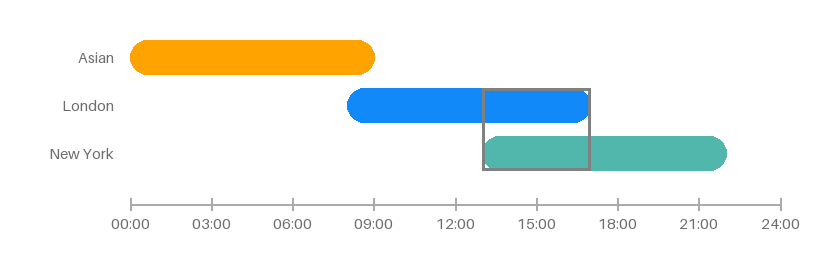
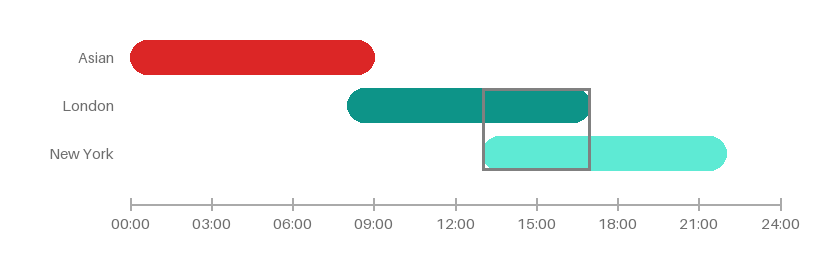
Full Learn section consistency pass: diagrams, wording, one factual fix
Ran the same audit that caught the Price Action issues across
Foundations, Reading Charts, and Market Structure.

Diagrams:
- 6 Foundations diagrams + order-blocks were still on the pre-2026-08-04
  blue/orange palette, never migrated to teal/red. Recoloured all 7;
  influence.png (4-tier hierarchy) and sessions-overlap.png (3 sessions)
  mapped to a teal-shade gradient rather than forcing an unrelated
  bull/bear red onto concepts that aren't bullish/bearish.
- trendlines/trendline-hybrid-anchor.png was missing the failed
  retest-and-reject candle the article text and caption both describe
  between the last touch and the real break. Added it.
- Verified the pin-bar.png "bug" flagged by the audit was a false
  positive on closer inspection, left unchanged.

Wording/accuracy:
- Fixed "NASD" typo (should be NAS100) in types-of-markets.md.
- Fixed a logically confused lag example in intro-to-indicators
  (conflated a pullback with a newly-forming trend).
- Updated two figure captions that named the old blue/orange colours
  by name.
- Removed two stray em-dashes (who-controls-markets caption,
  market-structure/execution section taglines).
- Cut a "worth sitting with" crutch construction in support-and-resistance.
- Tightened crutch-word density (mostly excess "rather than") across
  the 2026-08-13 Market Structure batch to match the rest of the site.

Changed region(s): [[0.3963, 0.3385, 0.7317, 0.4923], [0.1524, 0.1538, 0.4573, 0.3077], [0.5793, 0.5231, 0.8841, 0.6769]]

diff --git a/content/learn/market-structure/supply-and-demand/index.md b/content/learn/market-structure/supply-and-demand/index.md
@@ -10,7 +10,7 @@ tags: ["market structure", "supply and demand", "zones", "price action"]
 related: ["order-blocks", "supply-demand-flips", "what-is-market-structure"]
 ---
 
-Before price can make an impulsive move in one direction, it usually spends time resting somewhere first, a stretch of chop where buyers and sellers are roughly matched, and that resting spot is what a supply or demand zone actually marks. It's a close cousin of the [order block](/learn/market-structure/order-blocks/), covering the same underlying idea, but drawn around the whole base rather than a single candle.
+Before price can make an impulsive move in one direction, it usually spends time resting somewhere first, a stretch of chop where buyers and sellers are roughly matched, and that resting spot is what a supply or demand zone marks. It's a close cousin of the [order block](/learn/market-structure/order-blocks/), covering the same underlying idea, but drawn around the whole base rather than a single candle.
 
 ---
 
@@ -20,7 +20,7 @@ Before price can make an impulsive move in one direction, it usually spends time
 
 A demand zone is a base that price rallies away from, and the read is that buyers were accumulating there faster than sellers could absorb it, until the imbalance tipped and the market moved. A supply zone is the mirror image, a base that price falls away from, sellers building up until they overwhelmed the buyers holding the level.
 
-The strength of the move away from the zone matters more than how the zone itself looks. A slow grind up out of a base isn't nearly as telling as a sharp, wide-ranging rally that leaves the base behind in a handful of candles, since that speed is the evidence an imbalance was actually there.
+The strength of the move away from the zone matters more than how the zone itself looks. A slow grind up out of a base isn't nearly as telling as a sharp, wide-ranging rally that leaves the base behind in a handful of candles, since that speed is the evidence an imbalance was there.
 
 ---
 
@@ -32,7 +32,7 @@ An order block is the last single candle against the move, a narrow, precise def
 
 ## Fresh zones over tested ones
 
-A zone that hasn't been revisited since it formed is considered fresh, and it tends to react more reliably than one price has already returned to once or twice. The common explanation is that the first visit uses up whatever unfilled orders were left behind, so each additional test has less behind it, and while that's a model rather than a proven mechanism, it holds up often enough in practice to treat a fresh zone with more weight than a tested one.
+A zone that hasn't been revisited since it formed is considered fresh, and it tends to react more reliably than one price has already returned to once or twice. The common explanation is that the first visit uses up whatever unfilled orders were left behind, so each additional test has less behind it, and while that's a model, not a proven mechanism, it holds up often enough in practice to treat a fresh zone with more weight than a tested one.
 
 ---
 
@@ -46,7 +46,7 @@ A zone sitting in open space, with nothing else around it, is a level to watch r
 
 - A demand zone is the base price rallies away from; a supply zone is the base it falls away from
 - The strength of the move away from the base is the real evidence, not the shape of the base itself
-- Zones are broader than order blocks, covering the whole consolidation rather than one candle
+- Zones are broader than order blocks, covering the whole consolidation instead of one candle
 - Fresh, untested zones tend to react more reliably than zones price has already revisited
 - A zone alone is a level to watch; a zone with confluence is a level to trade
 

diff --git a/content/learn/reading-charts/intro-to-indicators/index.md b/content/learn/reading-charts/intro-to-indicators/index.md
@@ -24,7 +24,7 @@ A few others follow the same pattern. **MACD** is really two moving averages set
 
 I read price action first and lean on one indicator to back it up: **[eWavesHarmonics](/tools/)**, which handles wave counting and target price zones, and also marks fib levels, gaps, and supply and demand zones on the same chart, so I'm not juggling four separate indicators to get the same picture. It's built the same way as everything above, existing price run through a formula, it's just the particular transformation I've found useful for my own setups.
 
-## Where they genuinely help
+## Where they help
 
 Indicators are good at making a pattern easier to see than the raw candles alone would, and at giving a consistent, repeatable rule instead of an eyeballed judgement call. A moving average crossing from below to above price can flag a shift in short-term momentum faster than staring at candle colours would, and RSI holding above 70 for an extended stretch is a decent shorthand for "this move has been one-sided for a while." Used this way, an indicator adds a layer of confirmation on top of what the chart is already showing.
 
@@ -32,7 +32,7 @@ Indicators are good at making a pattern easier to see than the raw candles alone
 
 Because every indicator lags the closes it's built from, it will always confirm a move after it's underway rather than before, and trading purely off an indicator crossing a threshold means reacting to old information dressed up as a signal. Stacking several indicators built from the same price data doesn't add independent confirmation either, it just repeats the same signal in different clothing. The more useful habit is reading price action first and letting an indicator support that read, rather than the other way around.
 
-*Example: a moving average crossover flags a new uptrend just as price is already three candles into a pullback, because the average needed those candles to catch up. Anyone reading price action directly would have seen the pullback starting well before the crossover confirmed it.*
+*Example: a moving average crossover flags a new uptrend just as price is already three candles into the new move, because the average needed those candles to catch up. Anyone reading price action directly would have seen the shift starting well before the crossover confirmed it.*
 
 ---
 
@@ -42,7 +42,7 @@ Because every indicator lags the closes it's built from, it will always confirm 
 - Moving averages smooth price into a lagging line; oscillators like RSI turn recent gains and losses into a bounded, readable number
 - MACD, Bollinger Bands, ATR, and Stochastic all do the same trick with a different formula: two averages compared, a volatility band, pure movement, or the close against its recent range
 - I keep eWavesHarmonics on my own charts for wave counting, target zones, fib levels, gaps, and supply and demand zones, but it's still just price, transformed
-- Indicators are genuinely useful for confirmation and consistency, spotting what the eye might miss
+- Indicators are useful for confirmation and consistency, spotting what the eye might miss
 - They always lag, because they're built from closes that have already happened
 - Stacking multiple indicators built from the same price data isn't extra confirmation, it's repetition
 - Read price action first and use an indicator to support that read, not replace it

diff --git a/content/learn/market-structure/elliott-waves/index.md b/content/learn/market-structure/elliott-waves/index.md
@@ -32,7 +32,7 @@ Elliott practitioners lean heavily on Fibonacci ratios to judge whether a wave c
 
 ## The overfitting problem
 
-In real time, on the right-hand edge of the chart, there is very rarely one obvious wave count. Two experienced Elliott traders can look at the same chart and land on different labels, both defensible, and the count that eventually turns out to be "correct" is often only obvious after the fact. It's easy to fall into forcing a chart to match a preferred narrative rather than letting the chart tell you what it's actually doing, relabelling waves after the event to make a broken count look right in hindsight.
+In real time, on the right-hand edge of the chart, there is very rarely one obvious wave count. Two experienced Elliott traders can look at the same chart and land on different labels, both defensible, and the count that eventually turns out to be "correct" is often only obvious after the fact. It's easy to fall into forcing a chart to match a preferred narrative instead of letting the chart tell you what it's doing, relabelling waves after the event to make a broken count look right in hindsight.
 
 The more useful way to hold this theory is as a rough map of where price might sit within a bigger structure, not a standalone entry signal. Used alongside the more concrete tools already covered in this section, structure, zones, fair value gaps, it can add context for how far a move might still have to run. Used on its own as the whole basis for a trade, it's asking more certainty of the count than the count can honestly give.
 
@@ -43,7 +43,7 @@ The more useful way to hold this theory is as a rough map of where price might s
 - The core rhythm is five waves with the trend (1-2-3-4-5), then three waves against it (A-B-C)
 - Wave 2 can't retrace past the start of wave 1, wave 3 is never the shortest impulse wave, and wave 4 shouldn't overlap wave 1
 - Fibonacci ratios (around 50-61.8% for wave 2, 1.618x for wave 3 extensions) are common tendencies, not guarantees
-- Real-time wave counts are often genuinely ambiguous, and relabelling after the fact to fit a preferred story is the main trap
+- Real-time wave counts are often ambiguous, and relabelling after the fact to fit a preferred story is the main trap
 - Best used as context for a bigger structure, not as a signal to trade on by itself
 
 ---

diff --git a/content/learn/market-structure/multiple-timeframes.md b/content/learn/market-structure/multiple-timeframes.md
@@ -30,7 +30,7 @@ Higher and lower timeframes will disagree constantly, and that's expected rather
 
 ## A practical habit
 
-Before looking for an entry, it helps to be able to state the higher-timeframe bias in one sentence, uptrend, downtrend, or range, and which zone you're waiting for price to reach. Everything on the lower timeframe after that is about timing the entry within that already-decided plan, not re-deciding the plan candle by candle. If the lower timeframe keeps producing signals that contradict the stated bias, that's usually a sign to step back up a timeframe and check whether the bias itself has actually changed, rather than a reason to keep lowering the timeframe until something agrees with you.
+Before looking for an entry, it helps to be able to state the higher-timeframe bias in one sentence, uptrend, downtrend, or range, and which zone you're waiting for price to reach. Everything on the lower timeframe after that is about timing the entry within that already-decided plan, not re-deciding the plan candle by candle. If the lower timeframe keeps producing signals that contradict the stated bias, that's usually a sign to step back up a timeframe and check whether the bias itself has changed, not a reason to keep lowering the timeframe until something agrees with you.
 
 ---
 
@@ -39,7 +39,7 @@ Before looking for an entry, it helps to be able to state the higher-timeframe b
 - Use a higher timeframe to set bias and direction, and a lower timeframe to time the entry within that bias
 - A common split is roughly three tiers, higher for bias, middle for zones, lower for entry, though exact multiples matter less than the hierarchy
 - Disagreement between timeframes is normal, the goal is knowing which one you're trusting for which decision
-- State the higher-timeframe bias and target zone before looking for an entry, rather than deciding it candle by candle
+- State the higher-timeframe bias and target zone before looking for an entry, instead of deciding it candle by candle
 - Repeated contradicting signals on a lower timeframe are a reason to check the higher-timeframe bias, not to keep dropping down until one agrees
 
 ---

diff --git a/content/learn/market-structure/accumulation-and-distribution/index.md b/content/learn/market-structure/accumulation-and-distribution/index.md
@@ -20,7 +20,7 @@ A market rarely goes straight from one trend into the next. Most of the time it 
 
 Accumulation is a range that forms after a decline, price going sideways rather than continuing to fall, while larger participants build a position without pushing the price away from itself in the process. Markup is what follows once that buying pressure finally tips the balance, the range resolves upward, and the trend everyone associates with a "market going up" begins.
 
-Distribution is the same idea inverted, sitting at the top of a rally instead of the bottom, a range where the position built during the uptrend gets offloaded gradually rather than dumped all at once. Markdown is the decline that follows once selling finally overwhelms what demand is left. Then the cycle repeats, markdown eventually slowing back into another accumulation range.
+Distribution is the same idea inverted, sitting at the top of a rally instead of the bottom, a range where the position built during the uptrend gets offloaded gradually, not dumped all at once. Markdown is the decline that follows once selling finally overwhelms what demand is left. Then the cycle repeats, markdown eventually slowing back into another accumulation range.
 
 ---
 
@@ -42,9 +42,9 @@ Even with that limitation, thinking in terms of accumulation and distribution ch
 
 - Wyckoff's cycle: accumulation, markup, distribution, markdown, then back to accumulation
 - Accumulation is a base built after a decline; distribution is the mirror image built after a rally
-- Neither phase can be confirmed with certainty until the range actually resolves and holds on the retest
+- Neither phase can be confirmed with certainty until the range resolves and holds on the retest
 - A break out of a well-formed range tends to carry more weight than a sharp move with no base behind it
-- Watch ranges as preparation, not dead time, but confirm the phase with the breakout rather than the shape
+- Watch ranges as preparation, not dead time, but confirm the phase with the breakout, not the shape
 
 ---
 

diff --git a/content/learn/foundations/types-of-markets.md b/content/learn/foundations/types-of-markets.md
@@ -22,13 +22,13 @@ Currencies traded against each other: EURUSD, GBPUSD, USDJPY, and so on. Forex i
 
 ## Indices
 
-An index, GER40, US500, NASD, tracks a basket of company shares rather than any single one, so it moves on broad economic sentiment rather than any individual company's news. Indices tend to have clear, well-defined session opens tied to their underlying stock exchange's trading hours, which is why the open of a session so often produces the sharpest moves of the day.
+An index, GER40, US500, NAS100, tracks a basket of company shares rather than any single one, so it moves on broad economic sentiment rather than any individual company's news. Indices tend to have clear, well-defined session opens tied to their underlying stock exchange's trading hours, which is why the open of a session so often produces the sharpest moves of the day.
 
 ---
 
 ## Commodities
 
-Gold, oil, and agricultural products fall under commodities, priced on genuine supply and demand for a physical good, with gold carrying the added weight of being a store of value in its own right. Commodities can be more sensitive to geopolitical events and supply shocks than other market types, because a war or a shipping disruption can genuinely change how much of something exists to sell.
+Gold, oil, and agricultural products fall under commodities, priced on genuine supply and demand for a physical good, with gold carrying the added weight of being a store of value in its own right. Commodities can be more sensitive to geopolitical events and supply shocks than other market types, because a war or a shipping disruption can quickly change how much of something exists to sell.
 
 ---
 

diff --git a/content/learn/reading-charts/support-and-resistance/index.md b/content/learn/reading-charts/support-and-resistance/index.md
@@ -34,7 +34,7 @@ Watch a level long enough and you'll see this happen: once it breaks and price c
 
 ## Levels get used up, or they don't
 
-More touches on a level can mean two opposite things, and that's the part worth sitting with for a moment. It can mean the level is well defended, tested and holding each time, or it can mean the level is running out of orders to absorb and the next test is the one that finally breaks it. Counting touches alone won't tell you which. What matters more is how price behaves on the approach, whether it's slowing down and showing rejection or arriving with momentum and barely pausing. The same "look for a setup" logic from [Candlestick Patterns](/learn/reading-charts/candlestick-patterns/) and [Fair Value Gaps](/learn/market-structure/fair-value-gaps/) applies here too.
+More touches on a level can mean two opposite things, and that's the part to think through carefully. It can mean the level is well defended, tested and holding each time, or it can mean the level is running out of orders to absorb and the next test is the one that finally breaks it. Counting touches alone won't tell you which. What matters more is how price behaves on the approach, whether it's slowing down and showing rejection or arriving with momentum and barely pausing. The same "look for a setup" logic from [Candlestick Patterns](/learn/reading-charts/candlestick-patterns/) and [Fair Value Gaps](/learn/market-structure/fair-value-gaps/) applies here too.
 
 ---
 

diff --git a/content/learn/market-structure/liquidity-and-stop-hunts/index.md b/content/learn/market-structure/liquidity-and-stop-hunts/index.md
@@ -36,7 +36,7 @@ A genuine breakout holds. Price clears the level, closes beyond it, and follows 
 
 ## What this changes about your own stops
 
-Placing a stop exactly at the obvious level, the same swing high or low everyone else can see, puts it right inside the zone most likely to get run before the real move happens. Giving it a bit of room beyond the level, enough to sit outside the immediate liquidity pool, reduces the odds of getting caught in a hunt that reverses in your favour a few candles later. Some traders go further and use the hunt-and-reverse pattern itself as an entry signal, waiting for the wick-and-rejection at an obvious level rather than trying to avoid it entirely.
+Placing a stop right at the obvious level, the same swing high or low everyone else can see, puts it right inside the zone most likely to get run before the real move happens. Giving it a bit of room beyond the level, enough to sit outside the immediate liquidity pool, reduces the odds of getting caught in a hunt that reverses in your favour a few candles later. Some traders go further and use the hunt-and-reverse pattern itself as an entry signal, waiting for the wick-and-rejection at an obvious level instead of just avoiding it.
 
 ---
 

diff --git a/content/learn/market-structure/order-blocks/index.md b/content/learn/market-structure/order-blocks/index.md
@@ -26,7 +26,7 @@ A bullish order block is the last down candle (or last down-closing candle) befo
 
 ## Why price returns to test it
 
-The common explanation is that the candle marks a spot where orders were left unfilled: buyers who wanted in got skipped over as the market moved away too quickly, and price eventually drifts back to let them fill. Whether that's a precise description of what's happening under the hood, or just a decent enough model for something more complicated, is genuinely hard to say with certainty. What's easier to say is that the zone tends to get revisited often enough to earn a mark on the chart.
+The common explanation is that the candle marks a spot where orders were left unfilled: buyers who wanted in got skipped over as the market moved away too quickly, and price eventually drifts back to let them fill. Whether that's a precise description of what's happening under the hood, or just a decent enough model for something more complicated, is hard to say with certainty. What's easier to say is that the zone tends to get revisited often enough to earn a mark on the chart.
 
 ---
 

diff --git a/content/learn/market-structure/fair-value-gaps.md b/content/learn/market-structure/fair-value-gaps.md
@@ -68,7 +68,7 @@ The previous candle touches the level, then the next candle completely engulfs i
 **Candle gap at the level**
 Occasionally price gaps open exactly at the zone top, midpoint, or bottom, which is two forms of imbalance aligning at the same area, and when it occurs it adds weight to the zone.
 
-These setups are not named to make them sound more significant than they are. A pin bar at an FVG level in empty air is not a compelling trade, but the same setup at an FVG that also sits at a previous support level, a session open, or a higher timeframe target is a different proposition entirely.
+These setups are not named to make them sound more significant than they are. A pin bar at an FVG level in empty air is not a compelling trade, but the same setup at an FVG that also sits at a previous support level, a session open, or a higher timeframe target is a different proposition.
 
 ---
 

diff --git a/content/learn/foundations/leverage/index.md b/content/learn/foundations/leverage/index.md
@@ -16,7 +16,7 @@ Leverage lets you control a much larger position than the cash you've actually p
 
 ## How it works
 
-{{< figure src="leverage.png" caption="The margin you put up (orange) is a small fraction of the full position size you control (blue outline)." >}}
+{{< figure src="leverage.png" caption="The margin you put up (red) is a small fraction of the full position size you control (teal outline)." >}}
 
 At 1:100 leverage, £100 of margin controls a £10,000 position, so a 1% move in your favour on the full position size hands back a 100% return on the margin you committed. The reverse holds just as tightly: a 1% move against you wipes out that same £100 completely, which is the whole point to understand here, leverage doesn't change the underlying market at all, it only changes how much of your own capital is standing in front of a given move.
 

diff --git a/content/learn/foundations/brokers-and-spreads/index.md b/content/learn/foundations/brokers-and-spreads/index.md
@@ -16,7 +16,7 @@ A broker is the middleman standing between you and the market, and the spread, t
 
 ## What a spread is
 
-{{< figure src="spread.png" caption="The ask (blue) sits above the bid (orange). The gap between them is the spread." >}}
+{{< figure src="spread.png" caption="The ask (teal) sits above the bid (red). The gap between them is the spread." >}}
 
 Every instrument shows a bid price and an ask price side by side, and the ask always sits a little above the bid. That gap is the spread, and it means a position starts life slightly in the red, before price has moved at all, because you buy at the higher ask and would have to sell back at the lower bid. A tighter spread means less ground price has to make up before a trade is in profit.
 
